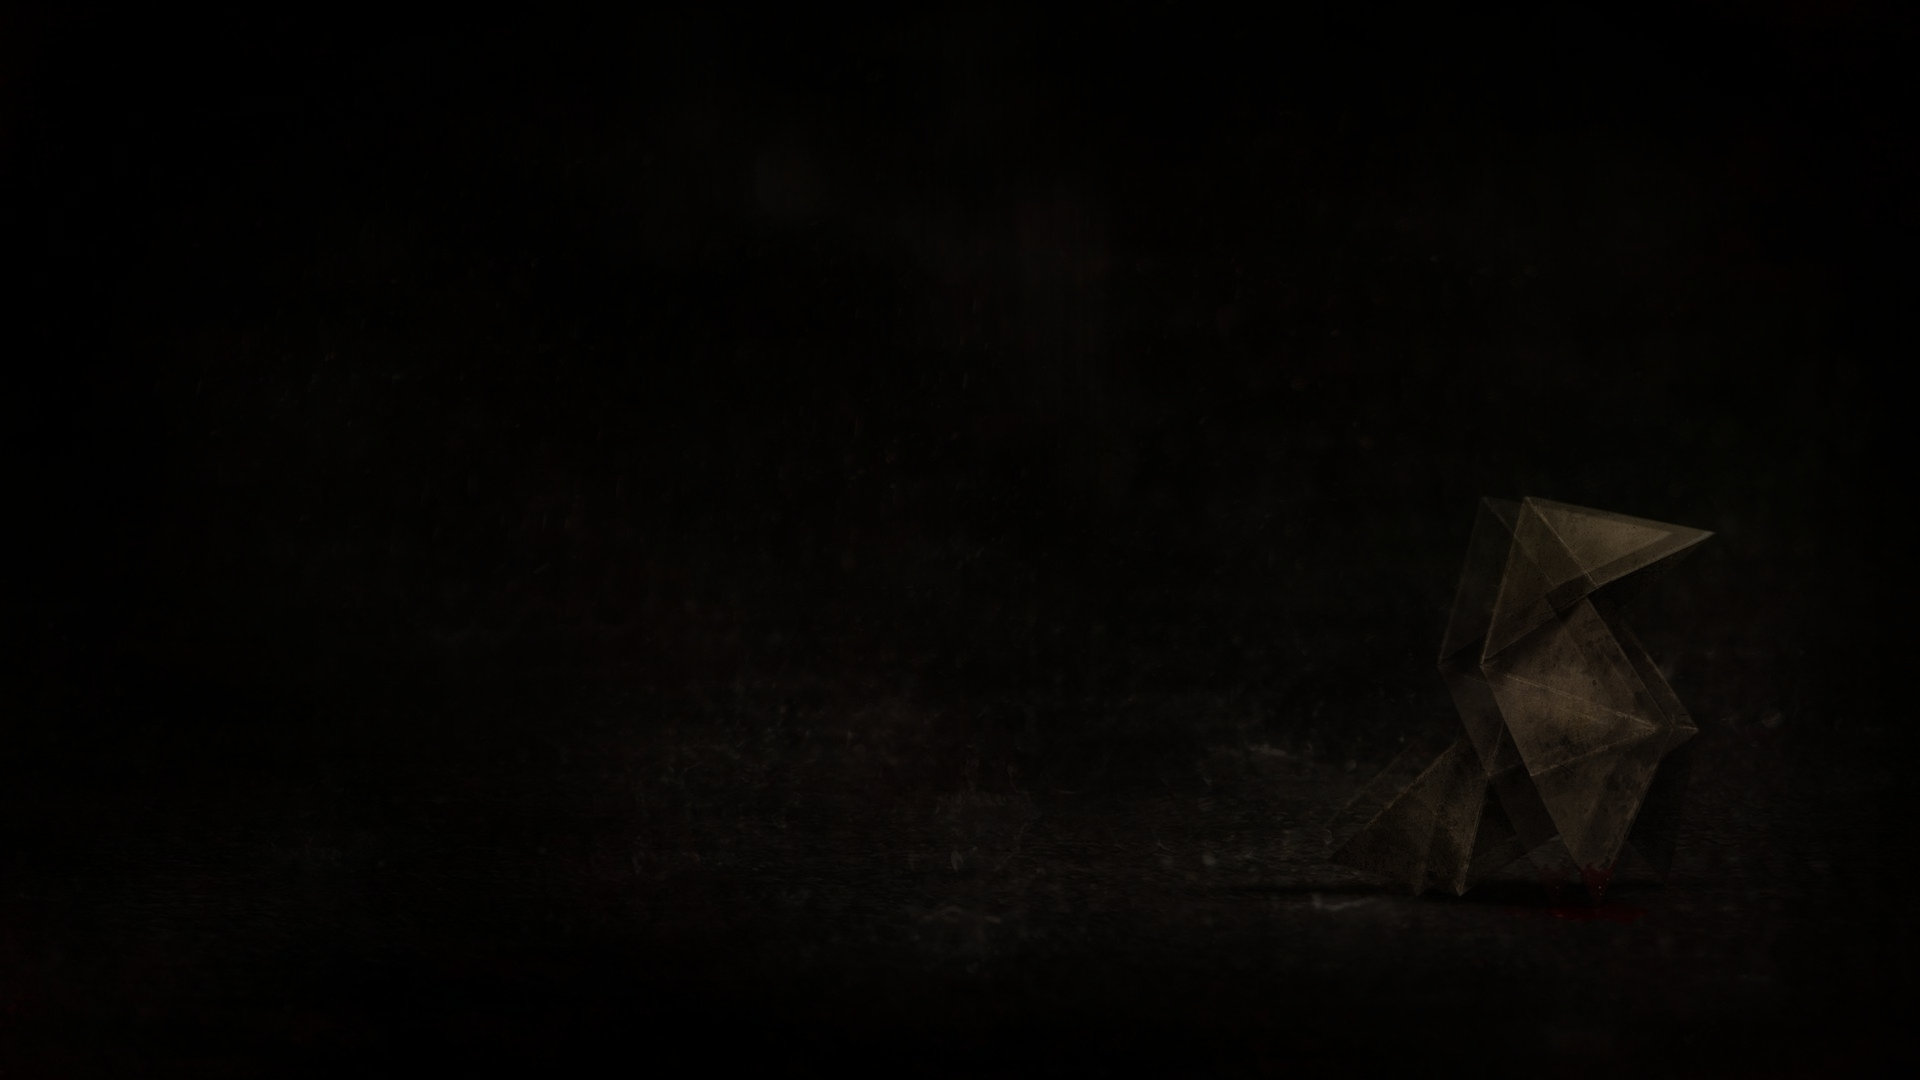
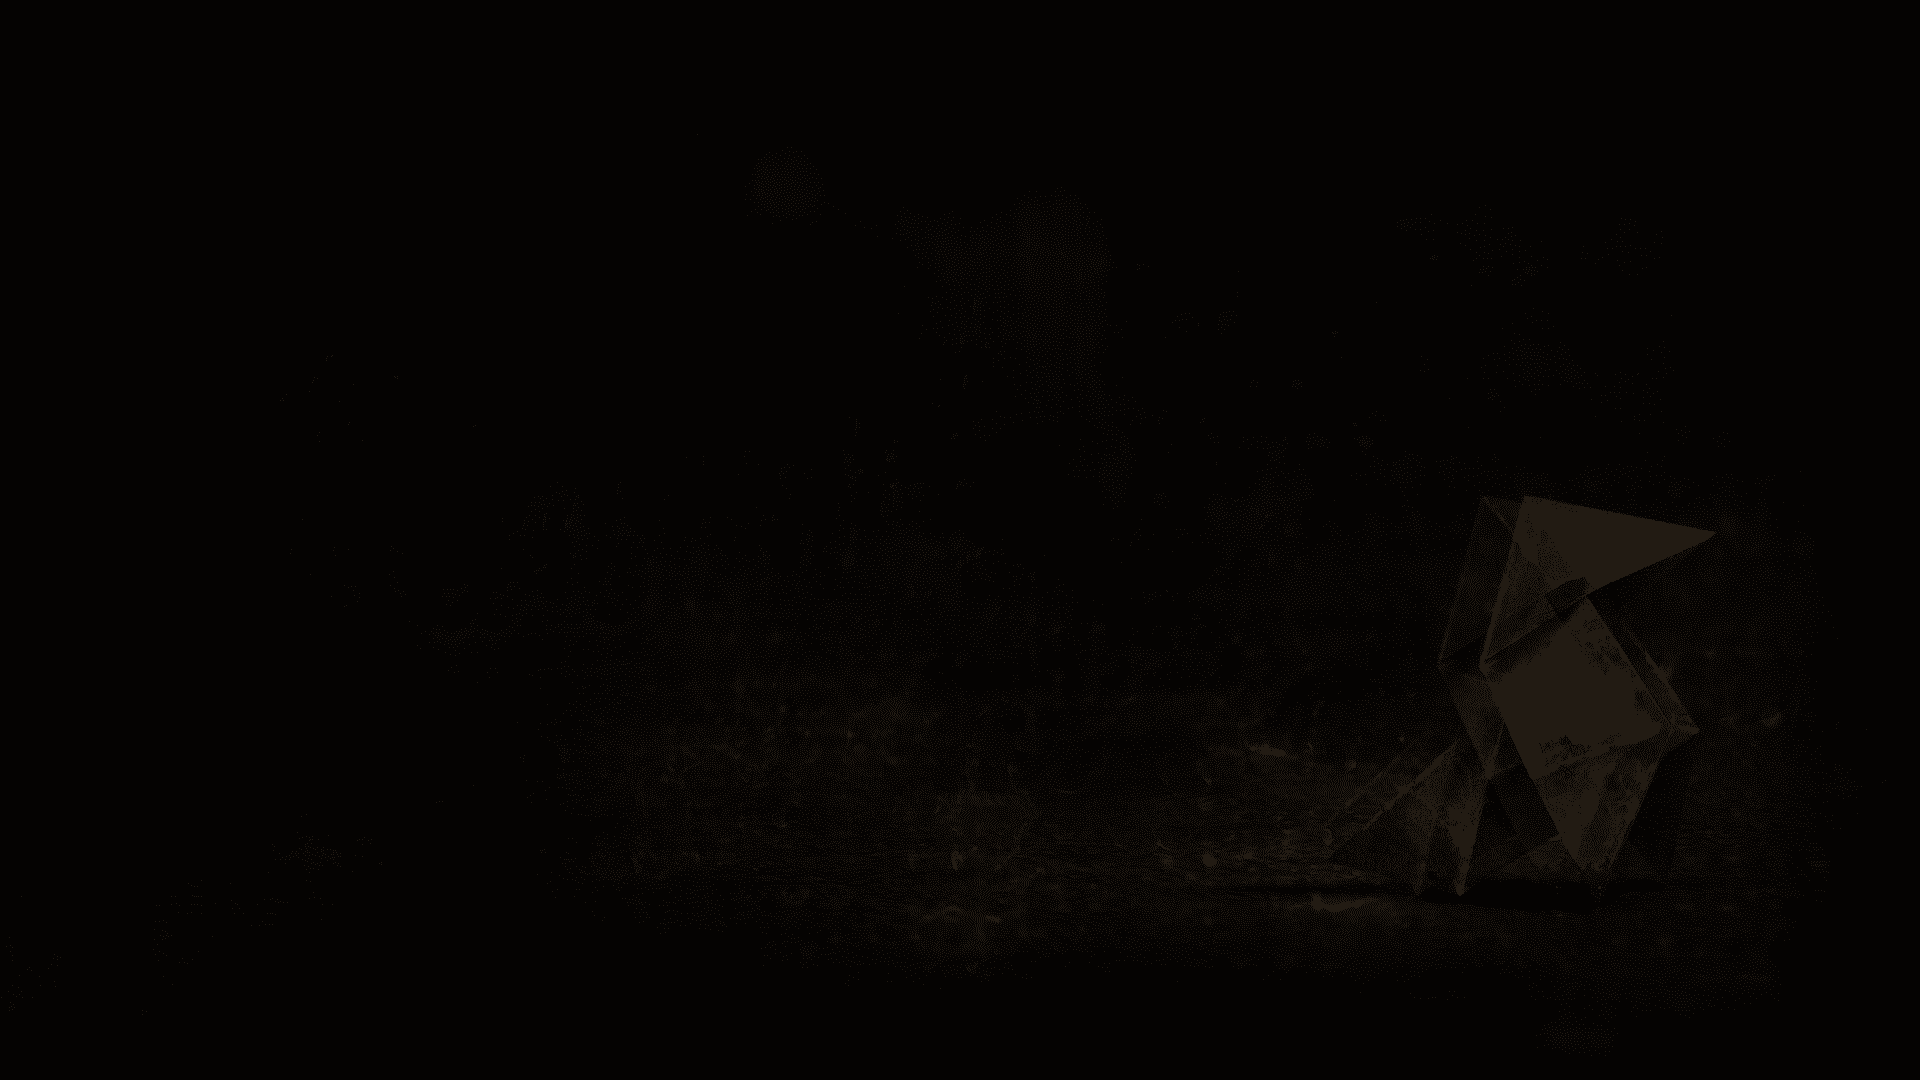
Update Dutch site
It's broken, heavily

Changed region(s): [[0.7812, 0.6111, 0.8438, 0.6722], [0.8125, 0.4583, 0.875, 0.5194]]

diff --git a/DUTCH/indexNL.html b/DUTCH/indexNL.html
@@ -145,7 +145,7 @@
 
     <div class="footer-line">
         <div class="footer-cap">
-            <img class="footer-banner" src="../Img/AgitoIcon.png" alt="">
+            <img class="footer-banner" src="../Img/AgitoIcon_Compressed.png" alt="">
             <img class="phone-footer-banner" src="../Img/FourthFiveCropped.png" alt="">
         </div>
     </div>

diff --git a/DUTCH/CSS/styleNL.css b/DUTCH/CSS/styleNL.css
@@ -32,7 +32,7 @@ body::-webkit-scrollbar-thumb:hover {
 
 .background {
     height: 1050px;
-    background-image: url('../../Img/bigCroppedIana.png');
+    background-image: url('../../Img/SteelWaveDarkBG.png');
     background-position: center;
     background-size: cover;
 }
